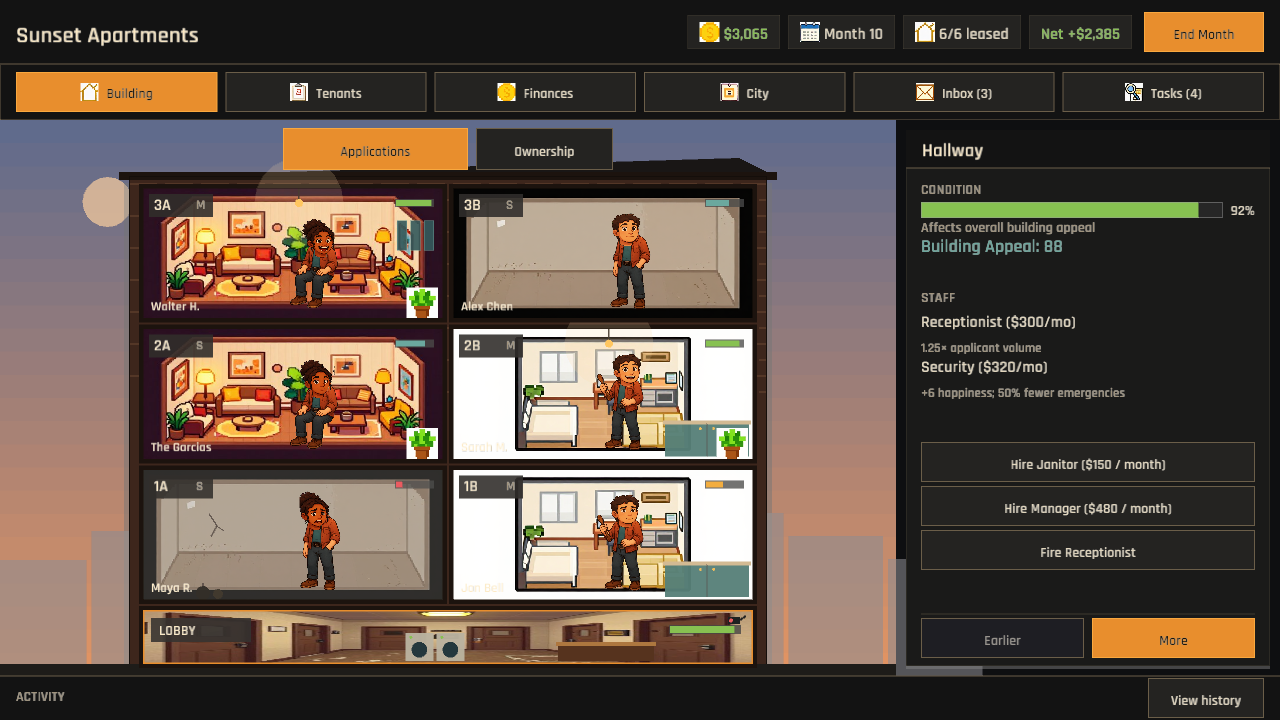
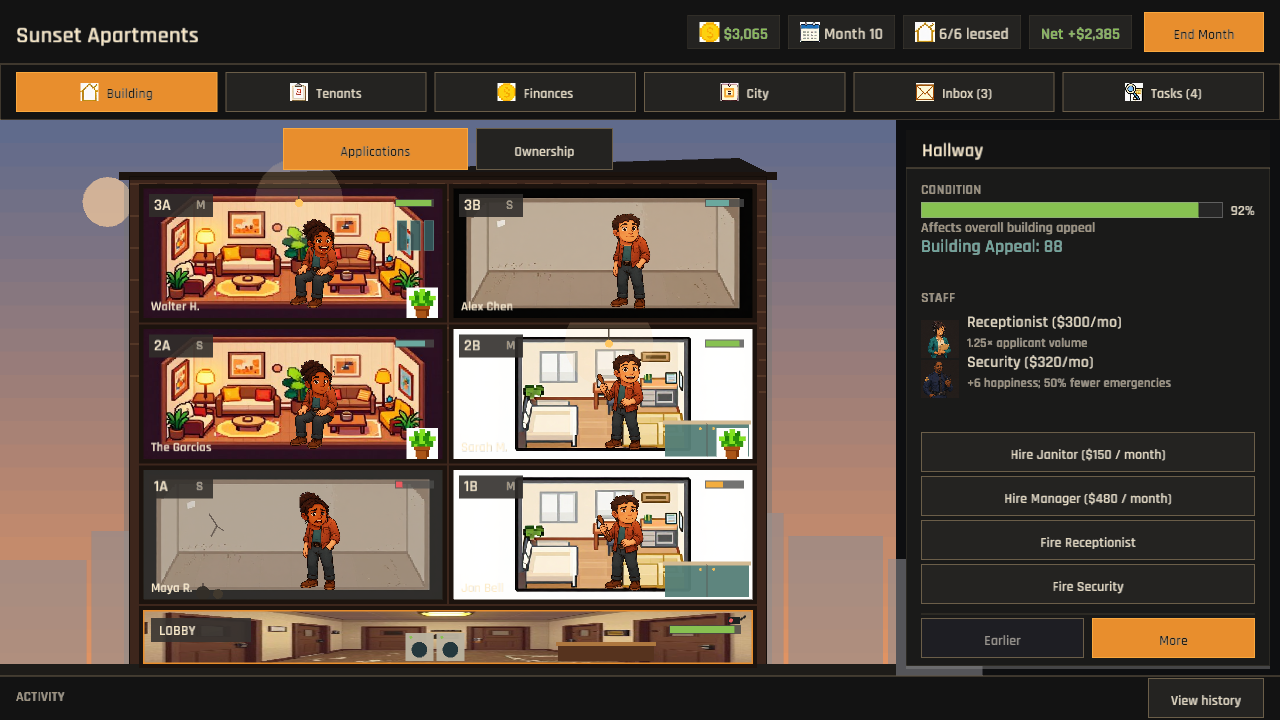
The hallway puts a face to every hand keeping the lights on (generated staff portrait atlas)
Add a generated four-role staff portrait atlas for the janitor, security guard, property manager, and receptionist, with a diverse cast in the established warm pixel-art palette. Record the source prompt in both graphics manifests and load the atlas through the shared asset pack.

Show distinct crop-safe portraits beside hired staff roles while retaining text benefits, hiring and firing controls, touch paging, and missing-asset fallbacks. Update stale tutorial copy so it names the visible RENT, LIST FOR LEASE, and END MONTH tap targets.

Verified with 131 passing tests (1 ignored), JSON manifest parsing, default and scrolled hallway captures, formatting, diff and Rust line-count checks, and publish.ps1 for Windows, WebGL, and preview deployment. The packed asset library now contains 73 files (8.11 MB).

Changed region(s): [[0.7188, 0.6111, 0.9688, 0.825], [0.7188, 0.4278, 0.9062, 0.55]]

diff --git a/src/ui/hallway_panel.rs b/src/ui/hallway_panel.rs
@@ -10,7 +10,7 @@ pub fn draw_hallway_panel(
     money: i32,
     offset_x: f32,
     scroll_offset: f32,
-    _assets: &AssetManager,
+    assets: &AssetManager,
     config: &crate::data::config::GameConfig,
 ) -> (Option<UiAction>, f32) {
     let mut action = None;
@@ -111,16 +111,23 @@ pub fn draw_hallway_panel(
                 Some(f) => f.to_uppercase().collect::<String>() + chars.as_str(),
             };
 
+            let portrait_rect = Rect::new(content_x, y - 7.0, 38.0, 38.0);
+            let has_portrait = draw_staff_portrait(staff_type, portrait_rect, assets);
+            let staff_x = if has_portrait {
+                portrait_rect.right() + 8.0
+            } else {
+                content_x
+            };
             if y >= content_top && y + 16.0 <= content_bottom {
                 draw_ui_text(
                     &format!("{} (${}/mo)", label, cost),
-                    content_x,
+                    staff_x,
                     y,
                     16.0,
                     colors::TEXT(),
                 );
             }
-            y += 25.0;
+            y += 20.0;
             let benefit = match staff_type.as_str() {
                 "janitor" => format!(
                     "Maintains {} units against monthly wear",
@@ -143,9 +150,12 @@ pub fn draw_hallway_panel(
             };
             if !benefit.is_empty() {
                 if y >= content_top && y + 13.0 <= content_bottom {
-                    draw_ui_text(&benefit, content_x, y, 13.0, colors::TEXT_DIM());
+                    draw_ui_text(&benefit, staff_x, y, 13.0, colors::TEXT_DIM());
                 }
                 y += 20.0;
+            }
+            if has_portrait {
+                y = y.max(portrait_rect.bottom() + 6.0);
             }
             staff_count += 1;
         }
@@ -279,4 +289,31 @@ pub fn draw_hallway_panel(
     super::widgets::draw_panel_header(Rect::new(panel_x, panel_y, panel_w, panel_h), "Hallway");
 
     (action, new_scroll)
+}
+
+fn draw_staff_portrait(role: &str, rect: Rect, assets: &AssetManager) -> bool {
+    let Some(texture) = assets.get_texture("staff_portraits") else {
+        return false;
+    };
+    let (col, row) = match role {
+        "janitor" => (0.0, 0.0),
+        "security" => (1.0, 0.0),
+        "manager" => (0.0, 1.0),
+        "receptionist" => (1.0, 1.0),
+        _ => return false,
+    };
+    let tile_w = texture.width() * 0.5;
+    let tile_h = texture.height() * 0.5;
+    draw_texture_ex(
+        texture,
+        rect.x,
+        rect.y,
+        WHITE,
+        DrawTextureParams {
+            dest_size: Some(vec2(rect.w, rect.h)),
+            source: Some(Rect::new(col * tile_w, row * tile_h, tile_w, tile_h)),
+            ..Default::default()
+        },
+    );
+    true
 }

diff --git a/src/narrative/tutorial.rs b/src/narrative/tutorial.rs
@@ -135,10 +135,12 @@ impl TutorialManager {
                     self.pending_messages.push(
                         "Great job cleaning up! Now let's find your first tenant.".to_string(),
                     );
-                    self.pending_messages.push("Select an apartment, adjust the Rent if needed, and click 'List for Lease'.".to_string());
                     self.pending_messages.push(
-                        "Then click 'End Month' to let time pass. Applicants will arrive!"
+                        "Tap an apartment, adjust RENT if needed, then tap LIST FOR LEASE."
                             .to_string(),
+                    );
+                    self.pending_messages.push(
+                        "Then tap END MONTH to let time pass. Applicants will arrive!".to_string(),
                     );
                     Some(TutorialMilestone::FirstResident)
                 }

diff --git a/src/assets.rs b/src/assets.rs
@@ -47,6 +47,7 @@ impl AssetManager {
             "tenant_face_emotions",
             "tenant_face_emotions_alt",
             "npc_uncle_artie",
+            "staff_portraits",
             // Designs
             "design_bare",
             "design_practical",
@@ -124,6 +125,7 @@ impl AssetManager {
                             | "tenant_face_emotions_alt"
                             | "npc_uncle_artie"
                             | "property_facades"
+                            | "staff_portraits"
                     ) {
                     FilterMode::Linear
                 } else {
